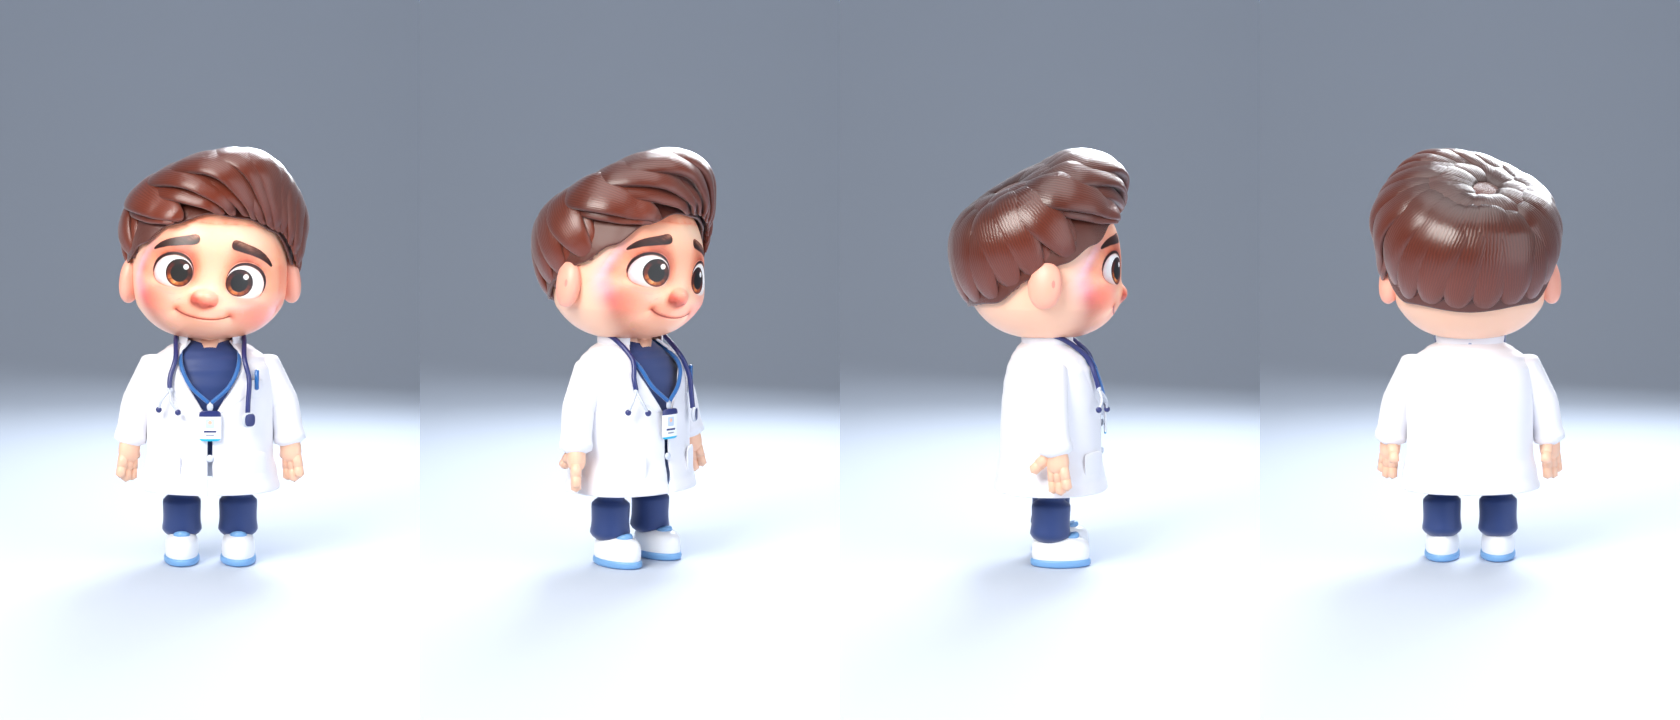
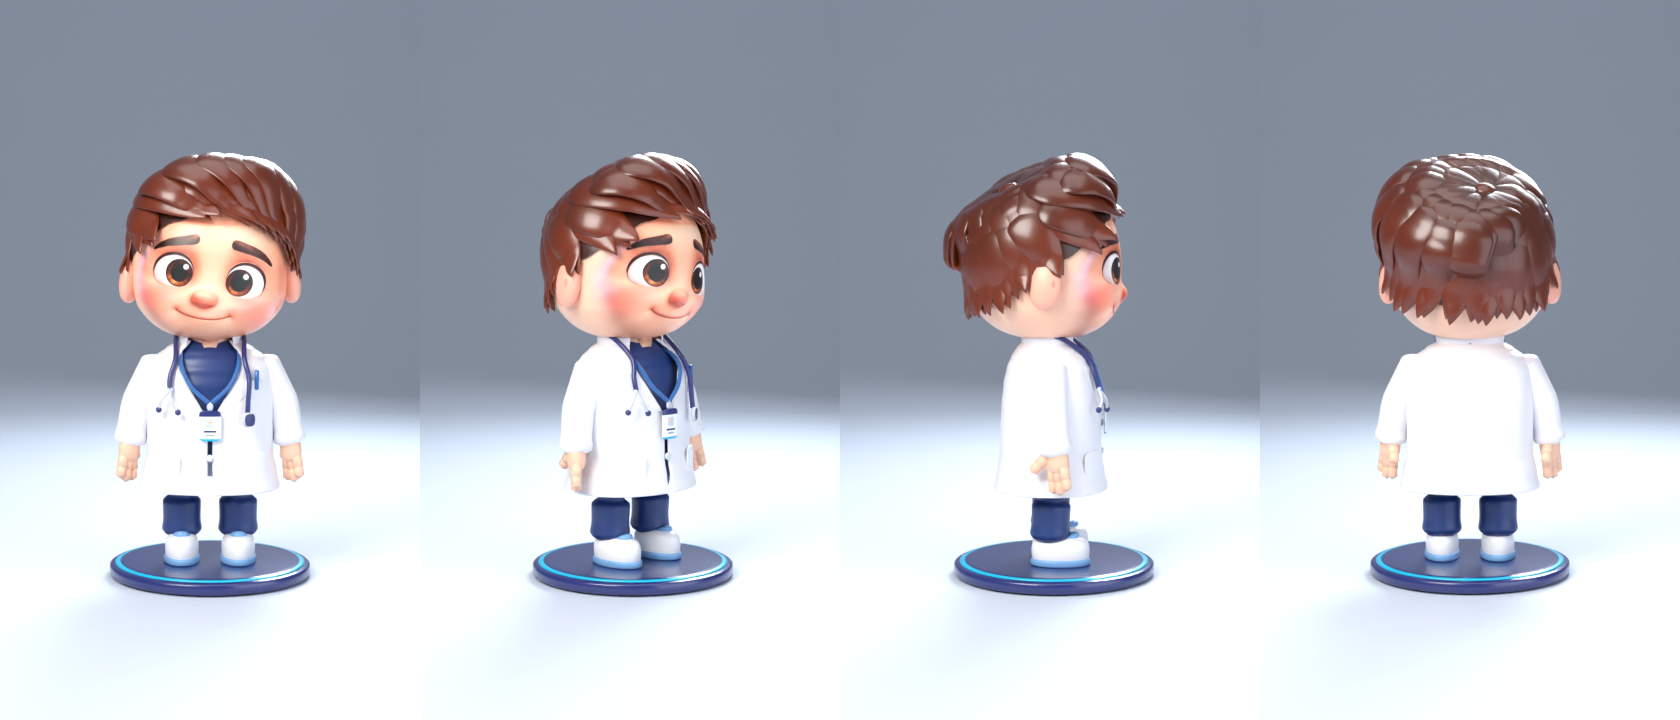
3D Dr. Smiley: art direction 2, collectible figure (Jose's pick)
build.py: STYLE 'figure' (the first look stays as 'v1'). Glossy moulded
hair: locks traced from the crown in three layers, lying inside an
envelope measured from the drawing's hair outline (HAIR_T, hair_t: how
far the drawn hair stands off the head at each angle), roots tucked at
the crown under a small swirl, sharp tips past the hairline. A round navy
display stand with a cyan ring; plastic finishes on coat and scrubs.
quickhead.py: a fast three-view check for iterating. Poses and the turn
not re-rendered yet.

Claude-Session: https://claude.ai/code/session_01KQpiRKykmEAhHZevf35uvQ

diff --git a/docs/mockups/smiley-3d/build.py b/docs/mockups/smiley-3d/build.py
@@ -485,6 +485,211 @@ def build_hair(mats, coll):
     return join(parts, 'Hair')
 
 
+# ---------- the hair, collectible-figure style (art direction 2, Jose's pick 2026-10-21) ----------
+# A few big molded locks with sharp tips, placed by hand after the drawing:
+# (waypoints (az, el) in degrees over the scalp, width, thickness, lift, tip flick).
+FIG_LOCKS = []
+for i in range(10):                                  # the back: from the crown down to the nape
+    a = 112 + 15 * i
+    FIG_LOCKS.append(([(200, 66), ((200 + a) / 2, 44), (a, 6), (a + 4, -36)], .072, .018, .012, .024))
+FIG_LOCKS += [
+    # his right side (your left): combed down and back over the temple
+    ([(-150, 62), (-124, 32), (-114, 2), (-118, -24)], .070, .018, .014, .022),
+    ([(-118, 66), (-100, 38), (-94, 10), (-97, -12)], .070, .018, .014, .022),
+    ([(-88, 66), (-80, 40), (-78, 16), (-83, 0)], .064, .017, .014, .02),
+    ([(-68, 58), (-64, 40), (-66, 24), (-70, 12)], .056, .016, .014, .018),
+    # his left side (your right): the puff over his ear, standing off more
+    ([(152, 62), (124, 32), (117, 2), (121, -26)], .074, .019, .022, .026),
+    ([(120, 66), (106, 38), (102, 8), (106, -16)], .078, .019, .030, .032),
+    ([(92, 64), (90, 38), (93, 12), (99, -8)], .074, .019, .034, .036),
+    # over the top, from the crown towards his left
+    ([(-150, 74), (-90, 82), (20, 84), (80, 66), (108, 40)], .082, .019, .030, .03),
+    ([(-100, 66), (-55, 76), (10, 78), (64, 66), (96, 40)], .080, .019, .034, .03),
+    ([(170, 74), (120, 70), (112, 46)], .076, .019, .024, .028),
+    # the pompadour: locks rising from his forehead, up and over to his left,
+    # their tips standing up off the top (the swoop in the drawing)
+    ([(-58, 34), (-46, 50), (-24, 64), (8, 72)], .066, .019, .046, .040),
+    ([(-36, 38), (-20, 54), (6, 66), (36, 68)], .074, .020, .060, .046),
+    ([(-12, 40), (6, 55), (32, 62), (58, 58)], .076, .021, .068, .050),
+    ([(12, 40), (30, 51), (54, 54), (78, 46)], .072, .020, .060, .046),
+    ([(36, 34), (54, 42), (74, 41), (92, 30)], .066, .019, .046, .040),
+]
+
+
+# How far his hair stands off his head in the drawing, seen from the front, by
+# angle round the head centre (0 = his left, your right; 90 = the top), in mm.
+# Measured on base.webp's hair against head_point()'s outline; the ears' rows
+# (170-200 and below -10) replaced by their neighbours.
+HAIR_T = [(-30, 0), (-20, 8), (-10, 16), (0, 30), (10, 50), (20, 62), (30, 64), (40, 60), (50, 62), (60, 65),
+          (70, 62), (80, 62), (90, 64), (100, 60), (110, 58), (120, 50), (130, 26), (140, 14), (150, 10),
+          (160, 9), (170, 8), (180, 8), (190, 6), (210, 0)]
+
+
+def hair_t(d):
+    """Envelope thickness (metres) over unit direction d: the drawing's outline,
+    less at the very front and back (the drawing can't show depth), fading to
+    nothing at the hairline so the hair rises off the forehead instead of
+    hanging over it."""
+    p = head_point(d)
+    phi = math.degrees(math.atan2(p.z, p.x))
+    if phi < -90:
+        phi += 360
+    t = 0.0
+    for (a0, t0), (a1, t1) in zip(HAIR_T, HAIR_T[1:]):
+        if a0 <= phi <= a1:
+            u = (phi - a0) / (a1 - a0)
+            t = t0 + (t1 - t0) * u
+            break
+    k = 1 - .45 * max(0, -d.y) ** 1.5 - .35 * max(0, d.y) ** 1.5
+    az, el = az_el(d)
+    ramp = max(0, min(1, (el - hairline(az)) / 22))
+    ramp = ramp * ramp * (3 - 2 * ramp)
+    return t / 1000 * k * (.25 + .75 * ramp)
+
+
+def fig_lock_traced(name, dirs, width, frac, flick, segs=18):
+    """A moulded lock along a streamline, lying at `frac` of the envelope."""
+    m = len(dirs)
+    if m < 4:
+        return None
+    spine = []
+    for i, d in enumerate(dirs):
+        t = i / (m - 1)
+        f = max(0, min(1, (t - .7) / .3))
+        root = min(1, t / .18) ** .7          # roots tuck into the cap at the crown
+        rise = .004 + root * frac * 1.1 * hair_t(d) * (.6 + .4 * math.sin(math.pi * min(1, t * 1.6))) + flick * f * f * (3 - 2 * f)
+        spine.append((head_point(d, grow=rise), head_point(d, grow=rise + .01)))
+    verts, along = [], []
+    for i, (p, pn) in enumerate(spine):
+        t = i / (m - 1)
+        tan = (spine[min(i + 1, m - 1)][0] - spine[max(i - 1, 0)][0]).normalized()
+        nrm = (pn - p) - tan * (pn - p).dot(tan)
+        nrm.normalize()
+        bi = tan.cross(nrm)
+        w = width * (.45 + .55 * min(1, t / .25)) * max(0, 1 - t ** 2.4) ** .9
+        h = max(.004, .32 * w)
+        if i == m - 1:
+            w, h = .0004, .0004
+        for k in range(segs):
+            a = 2 * math.pi * k / segs
+            sa = math.sin(a)
+            verts.append(p + bi * (w * math.cos(a)) + nrm * (h * sa * abs(sa) ** .35))
+            along.append(t)
+    ob = mesh_obj(name, verts, grid_faces(m, segs))
+    ob.data.attributes.new('along', 'FLOAT', 'POINT').data.foreach_set('value', along)
+    ob.data.uv_layers.new(name='UVMap')
+    return ob
+
+
+def fig_lock(name, waypoints, width, thick, lift, flick, segs=18, n=36):
+    pts = [sph(a, e) for a, e in waypoints]
+    dirs = [p.normalized() for p in catmull(pts, max(2, n // (len(pts) - 1)))]
+    m = len(dirs)
+    spine = []
+    for i, d in enumerate(dirs):
+        t = i / (m - 1)
+        f = max(0, min(1, (t - .65) / .35))
+        rise = .006 + lift * math.sin(math.pi * min(1, t * 1.15)) ** .8 * (1 - .4 * t) + flick * f * f * (3 - 2 * f)
+        spine.append((head_point(d, grow=rise), head_point(d, grow=rise + .01)))
+    verts, along = [], []
+    for i, (p, pn) in enumerate(spine):
+        t = i / (m - 1)
+        tan = (spine[min(i + 1, m - 1)][0] - spine[max(i - 1, 0)][0]).normalized()
+        nrm = (pn - p) - tan * (pn - p).dot(tan)
+        nrm.normalize()
+        bi = tan.cross(nrm)
+        w = width * (.55 + .45 * min(1, t / .2)) * max(0, 1 - t ** 2.2) ** .85
+        h = thick * max(0, 1 - t ** 1.6) ** .6 + .0008
+        if i == m - 1:
+            w, h = .0004, .0004
+        for k in range(segs):
+            a = 2 * math.pi * k / segs
+            sa = math.sin(a)
+            verts.append(p + bi * (w * math.cos(a)) + nrm * (h * sa * abs(sa) ** .35))
+            along.append(t)
+    ob = mesh_obj(name, verts, grid_faces(m, segs))
+    ob.data.attributes.new('along', 'FLOAT', 'POINT').data.foreach_set('value', along)
+    ob.data.uv_layers.new(name='UVMap')
+    return ob
+
+
+def fig_hair_material():
+    """Glossy moulded PVC: one brown, a touch darker at the roots."""
+    m = principled('HairFig', srgb(88, 34, 15), rough=.34, coat=.35, sss=.04)
+    N, L = m.node_tree.nodes, m.node_tree.links
+    b = N['Principled BSDF']
+    b.inputs['Coat Roughness'].default_value = .18
+    at = N.new('ShaderNodeAttribute'); at.attribute_name = 'along'
+    ramp = N.new('ShaderNodeValToRGB')
+    ramp.color_ramp.elements[0].color = srgb(52, 19, 8)
+    ramp.color_ramp.elements[1].color = srgb(104, 40, 17)
+    ramp.color_ramp.elements[1].position = .6
+    L.new(at.outputs['Fac'], ramp.inputs['Fac'])
+    L.new(ramp.outputs['Color'], b.inputs['Base Color'])
+    return m
+
+
+def build_hair_figure(mats, coll):
+    parts = []
+    segs, rings = 96, 50
+    verts, faces, rows = [], [], []
+    for r in range(rings + 1):
+        row = []
+        for s_ in range(segs):
+            az = 360 * s_ / segs - 180
+            lo = hairline(az) + 2
+            el = lo + (89.5 - lo) * r / rings
+            row.append(len(verts))
+            verts.append(head_point(sph(az, el), grow=.006) + Vector((0, 0, HZ)))
+        rows.append(row)
+    for r in range(rings):
+        for s_ in range(segs):
+            faces.append((rows[r][s_], rows[r][(s_ + 1) % segs], rows[r + 1][(s_ + 1) % segs], rows[r + 1][s_]))
+    top = len(verts)
+    verts.append(head_point((0, 0, 1), grow=.006) + Vector((0, 0, HZ)))
+    faces += [(rows[-1][s_], rows[-1][(s_ + 1) % segs], top) for s_ in range(segs)]
+    cap = mesh_obj('HairCap', verts, faces, coll=coll)
+    cap.data.attributes.new('along', 'FLOAT', 'POINT').data.foreach_set('value', [0.0] * len(verts))
+    cap.data.uv_layers.new(name='UVMap')
+    cap.data.materials.append(mats['hair'])
+    parts.append(cap)
+    # a little swirl where the locks meet at the crown
+    for k, (r, g) in enumerate(((.026, .010), (.016, .016))):
+        sw = ellipsoid(f'Swirl.{k}', head_point(WHORL, grow=g) + Vector((0, 0, HZ)), (r, r, r * .45), mat=mats['hair'],
+                       rot=WHORL.to_track_quat('Z', 'Y').to_matrix())
+        sw.data.attributes.new('along', 'FLOAT', 'POINT').data.foreach_set('value', [.3] * len(sw.data.vertices))
+        sw.data.uv_layers.new(name='UVMap')
+        parts.append(sw)
+    # locks traced from the crown (flow()), in three layers up to the envelope
+    up = Vector((0, 0, 1))
+    e1 = (up - WHORL * up.dot(WHORL)).normalized()
+    e2 = WHORL.cross(e1)
+    i = 0
+    for layer, (count, ring, frac, wmin, wmax) in enumerate([(24, 8, .35, .060, .072),
+                                                            (22, 18, .70, .058, .070),
+                                                            (18, 30, .98, .054, .066)]):
+        for j in range(count):
+            ang = 2 * math.pi * (j + .33 * layer) / count
+            r = math.radians(ring + rng.uniform(-3, 3))
+            d = (WHORL * math.cos(r) + (e1 * math.cos(ang) + e2 * math.sin(ang)) * math.sin(r)).normalized()
+            dirs = trace(d, 3.0)
+            # carry on a little past the hairline so the tips end in points
+            for _ in range(4):
+                dirs.append((dirs[-1] + flow(dirs[-1]) * .03).normalized())
+            ob = fig_lock_traced(f'Lock.{i:02d}', dirs, rng.uniform(wmin, wmax), frac, .010 + .008 * layer)
+            i += 1
+            if ob:
+                ob.location.z = HZ
+                ob.data.materials.append(mats['hair'])
+                parts.append(ob)
+    for o in parts:
+        if o.name not in coll.objects:
+            coll.objects.link(o)
+        if o.name in bpy.context.scene.collection.objects:
+            bpy.context.scene.collection.objects.unlink(o)
+    return join(parts, 'Hair')
+
+
 def join(obs, name):
     ctx = bpy.context
     for o in ctx.view_layer.objects:
@@ -1015,7 +1220,7 @@ def studio():
             vs.append((x, y, z))
     m = len(prof)
     fs = [(i, i + 1, m + i + 1, m + i) for i in range(m - 1)]
-    fl = mesh_obj('Floor', vs, fs)
+    fl = mesh_obj('Floor', [(x, y, z - STAND_H) for x, y, z in vs], fs)
     fm = principled('Floor', srgb(196, 206, 222), rough=.7, coat=0)
     fl.data.materials.append(fm)
     cam_d = bpy.data.cameras.new('Cam'); cam_d.lens = 85
@@ -1024,13 +1229,31 @@ def studio():
     return cam
 
 
+STAND_H = .036      # the display stand he stands on; the floor sits under it
+
+
+def build_stand(coll):
+    m = principled('Stand', srgb(37, 46, 109), rough=.22, coat=.6)
+    rim = principled('StandRim', srgb(1, 184, 230), rough=.3, coat=.4)
+    st = ellipsoid('Stand', (0, -.01, -STAND_H / 2), (.25, .25, STAND_H / 2), mat=m, segs=96, rings=24, p=7)
+    ring = ellipsoid('StandRing', (0, -.01, -.002), (.236, .236, .003), mat=rim, segs=96, rings=8, p=8)
+    top = ellipsoid('StandTop', (0, -.01, -.0005), (.226, .226, .002), mat=m, segs=96, rings=8, p=8)
+    for o in (st, ring, top):
+        coll.objects.link(o); bpy.context.scene.collection.objects.unlink(o)
+    return [st, ring, top]
+
+
 def look(cam, target, dist, az, el):
     t = Vector(target)
     cam.location = t + sph(az, el) * dist
     cam.rotation_euler = (t - cam.location).to_track_quat('-Z', 'Y').to_euler()
 
 
-def build(head_only=False):
+STYLE = 'figure'      # 'figure' (art direction 2) or 'v1' (the first look, kept for comparison)
+
+
+def build(head_only=False, style=None):
+    style = style or STYLE
     bpy.ops.wm.read_factory_settings(use_empty=True)
     coll = bpy.data.collections.new('DrSmiley'); bpy.context.scene.collection.children.link(coll)
     mats = {
@@ -1038,9 +1261,9 @@ def build(head_only=False):
         'skin': principled('Skin', SKIN, rough=.42, coat=.18, sss=.12),
         'ear': principled('Ear', SKIN_EAR, rough=.45, coat=.15, sss=.15),
         'earin': principled('EarIn', srgb(236, 140, 128), rough=.5, coat=.1, sss=.15),
-        'hair': hair_material(),
-        'coat': principled('Coat', COAT, rough=.55, coat=.12, sheen=.3),
-        'scrub': principled('Scrubs', SCRUB, rough=.6, coat=.08, sheen=.4),
+        'hair': fig_hair_material() if style == 'figure' else hair_material(),
+        'coat': principled('Coat', COAT, rough=.42, coat=.3) if style == 'figure' else principled('Coat', COAT, rough=.55, coat=.12, sheen=.3),
+        'scrub': principled('Scrubs', SCRUB, rough=.45, coat=.25) if style == 'figure' else principled('Scrubs', SCRUB, rough=.6, coat=.08, sheen=.4),
         'shoe': principled('Shoe', SHOE, rough=.4, coat=.3),
         'sole': principled('Sole', SOLE, rough=.45, coat=.2),
         'button': principled('Button', srgb(214, 220, 232), rough=.25, coat=.6),
@@ -1056,7 +1279,7 @@ def build(head_only=False):
     ears = build_ears(mats, coll)
     for e in ears:
         subsurf(e, 1)
-    hair = build_hair(mats, coll)
+    hair = build_hair_figure(mats, coll) if style == 'figure' else build_hair(mats, coll)
     subsurf(hair, 1)
     arm = None
     if not head_only:
@@ -1066,6 +1289,8 @@ def build(head_only=False):
                 subsurf(o, 1)
             elif o.name.split('.')[0] in ('Coat', 'Lapel', 'Collar'):
                 subsurf(o, 2)
+        if style == 'figure':
+            build_stand(coll)
         arm = build_rig(coll)
         rig_everything(arm, [head, hair] + ears + body)
     root = bpy.data.objects.new('DrSmiley', None); coll.objects.link(root)

diff --git a/docs/mockups/smiley-3d/quickhead.py b/docs/mockups/smiley-3d/quickhead.py
@@ -1,0 +1,26 @@
+"""Quick look at the head: front, 3/4 and side, small and fast (for iterating).
+
+  python3 quickhead.py [samples] -> out/quick-head.png
+"""
+import os, sys, math
+import bpy
+from PIL import Image
+sys.path.insert(0, os.path.dirname(os.path.abspath(__file__)))
+import build
+
+HERE = os.path.dirname(os.path.abspath(__file__))
+parts = build.build(head_only=True)
+sc = bpy.context.scene
+sc.cycles.samples = int(sys.argv[1]) if len(sys.argv) > 1 else 12
+sc.render.resolution_x, sc.render.resolution_y = 420, 460
+ims = []
+for i, az in enumerate((0, -35, -80, 150)):
+    build.look(parts['cam'], (0, 0, .78), 2.4, 0, 8)
+    parts['root'].rotation_euler.z = -math.radians(az)
+    f = os.path.join(HERE, 'out', f'qh_{i}.png'); sc.render.filepath = f
+    bpy.ops.render.render(write_still=True); ims.append(Image.open(f))
+sheet = Image.new('RGB', (420 * len(ims), 460))
+for i, im in enumerate(ims):
+    sheet.paste(im, (420 * i, 0))
+sheet.save(os.path.join(HERE, 'out', 'quick-head.png'))
+print('done')
